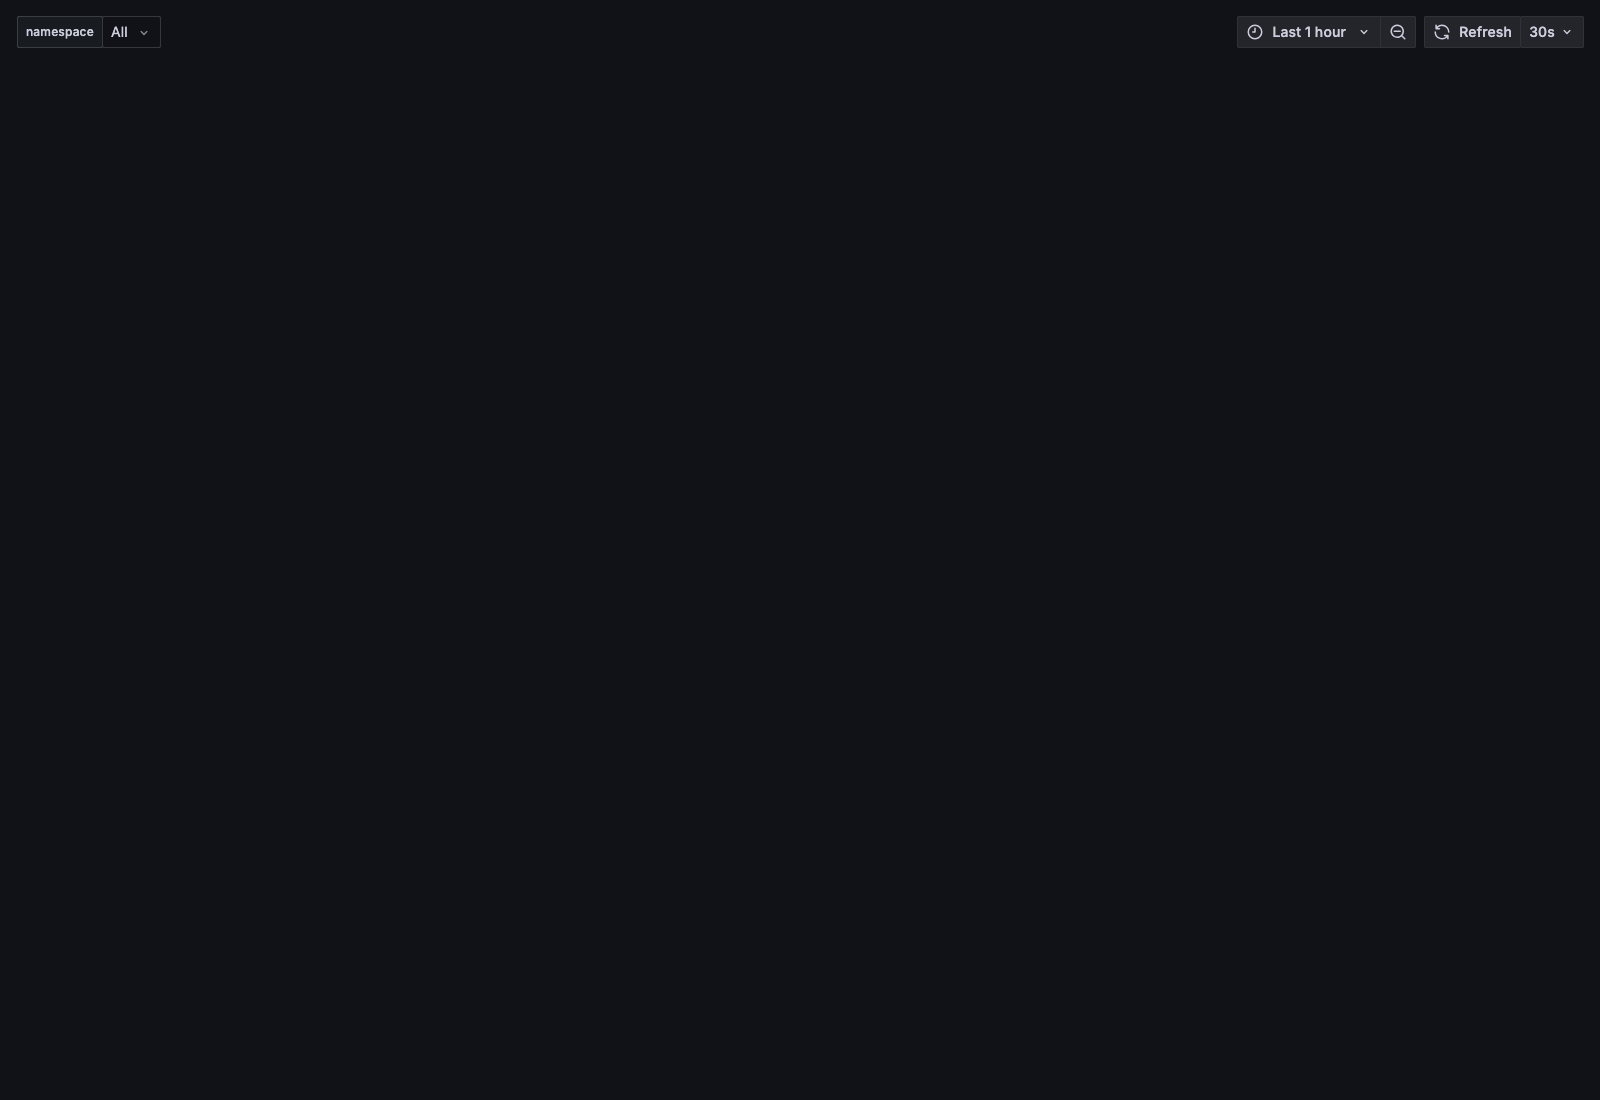
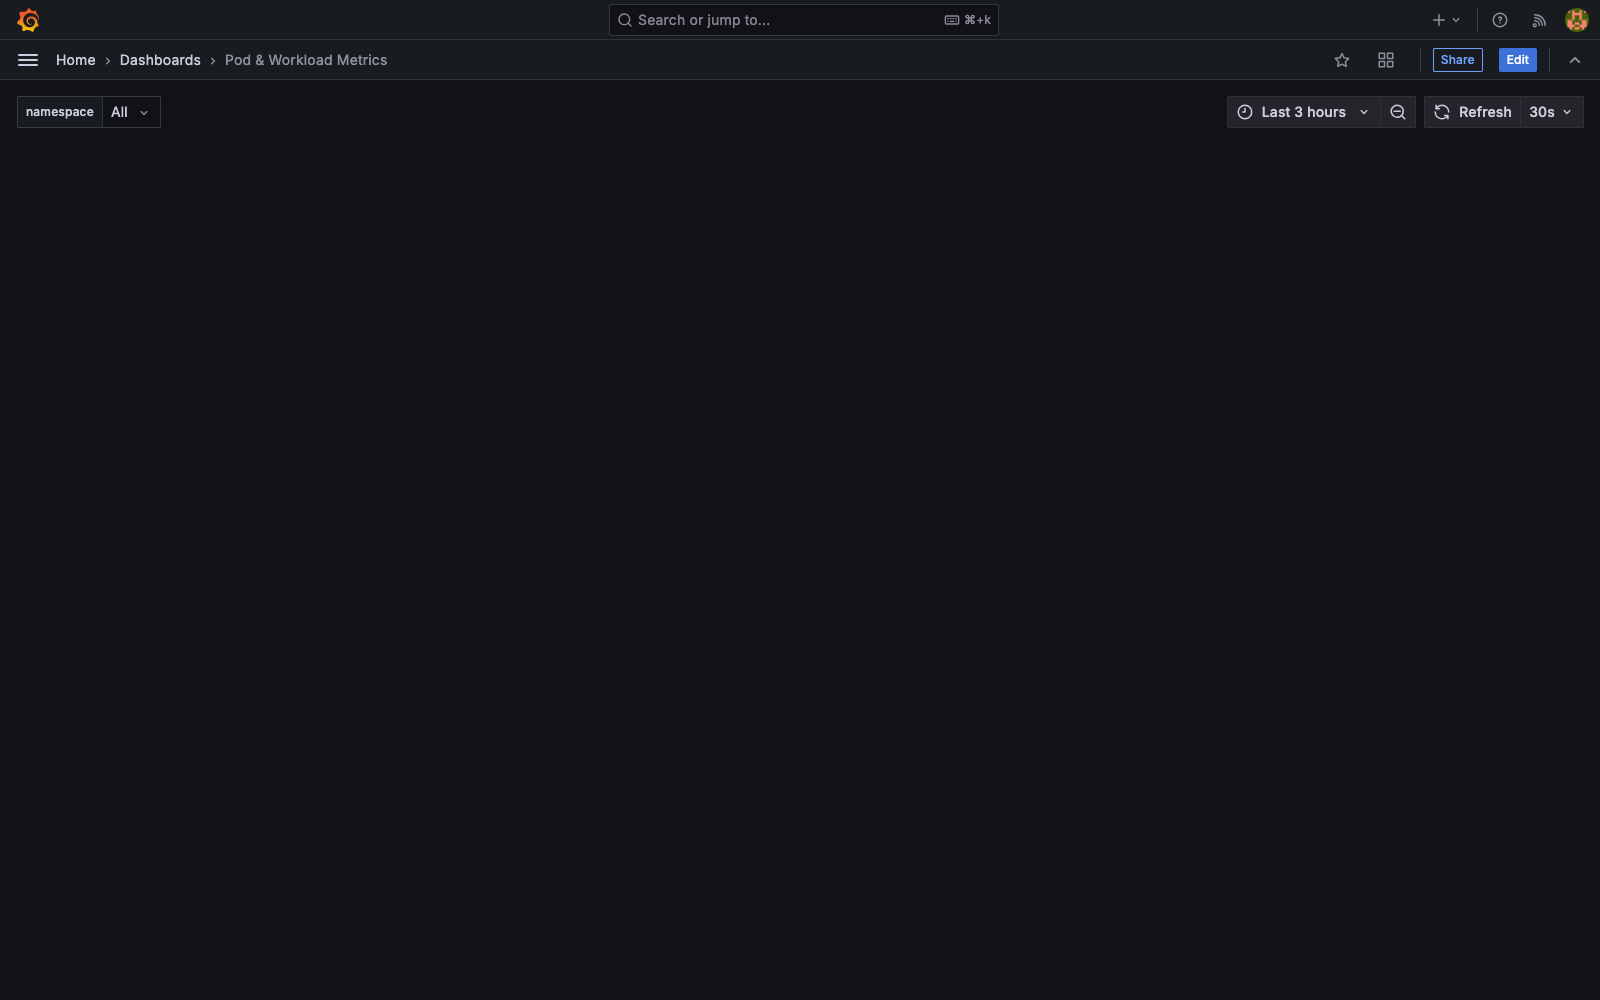
fix(extensions): move onClick/path to top-level addLink config
The configure callback is for dynamic configuration, while onClick,
path, icon, and category are top-level properties on the
PluginExtensionAddedLinkConfig type.

diff --git a/scripts/screenshots.js b/scripts/screenshots.js
@@ -9,30 +9,30 @@ const OUT_DIR = path.join(__dirname, '..', 'docs', 'screenshots');
 const PAGES = [
   {
     name: 'cluster-overview',
-    path: '/d/bfhgtzow3ug3ka/kubernetes-cluster-overview?orgId=1&kiosk',
+    path: '/d/k8s-cluster-overview/kubernetes-cluster-overview?orgId=1&from=now-3h&to=now&kiosk',
     width: 1600,
     height: 1000,
-    delay: 8000,
+    delay: 15000,
   },
   {
     name: 'node-metrics',
-    path: '/d/afhgu1eiunkzke/node-metrics-deep-dive?orgId=1&kiosk',
+    path: '/d/node-metrics/node-metrics-deep-dive?orgId=1&from=now-3h&to=now',
     width: 1600,
-    height: 1200,
-    delay: 8000,
+    height: 900,
+    delay: 15000,
   },
   {
     name: 'pod-workloads',
-    path: '/d/efhgu2yrfuubkc/pod-and-workload-metrics?orgId=1&kiosk',
+    path: '/d/pod-workloads/pod-and-workload-metrics?orgId=1&from=now-3h&to=now',
     width: 1600,
-    height: 1100,
-    delay: 8000,
+    height: 900,
+    delay: 15000,
   },
   {
     name: 'plugin-config',
-    path: '/a/tamcore-llmanalysis-app/?tab=configuration',
+    path: '/plugins/tamcore-llmanalysis-app',
     width: 1280,
-    height: 800,
+    height: 960,
     delay: 4000,
   },
   {
@@ -82,6 +82,55 @@ const PAGES = [
     const outPath = path.join(OUT_DIR, `${entry.name}.png`);
     await page.screenshot({ path: outPath, fullPage: true });
     console.log(`  → ${outPath}`);
+  }
+
+  // Capture panel menu extension screenshot
+  console.log('Capturing panel-menu-extension…');
+  await page.setViewport({ width: 1600, height: 1000 });
+  await page.goto(`${BASE_URL}/d/k8s-cluster-overview/kubernetes-cluster-overview?orgId=1`, {
+    waitUntil: 'networkidle2',
+    timeout: 30000,
+  });
+  await new Promise((r) => setTimeout(r, 10000));
+
+  try {
+    // Find and click the panel menu button (kebab icon) for "Cluster CPU Usage"
+    const menuBtn = await page.$('[data-testid="data-testid Panel menu Cluster CPU Usage"]');
+    if (menuBtn) {
+      await menuBtn.click();
+      await new Promise((r) => setTimeout(r, 1000));
+
+      // Look for "More..." or "Extensions" submenu to find our link
+      const moreBtn = await page.evaluateHandle(() => {
+        const items = document.querySelectorAll('[role="menuitem"]');
+        for (const item of items) {
+          if (item.textContent.includes('More') || item.textContent.includes('Extension')) {
+            return item;
+          }
+        }
+        return null;
+      });
+
+      if (moreBtn && moreBtn.asElement()) {
+        await moreBtn.asElement().click();
+        await new Promise((r) => setTimeout(r, 1000));
+      }
+    } else {
+      // Fallback: find any panel menu trigger
+      const allMenuBtns = await page.$$('[aria-label="Menu for panel"]');
+      if (allMenuBtns.length > 0) {
+        await allMenuBtns[0].click();
+        await new Promise((r) => setTimeout(r, 1500));
+      }
+    }
+
+    await page.screenshot({
+      path: path.join(OUT_DIR, 'panel-menu-extension.png'),
+      fullPage: false,
+    });
+    console.log('  → panel-menu-extension.png');
+  } catch (err) {
+    console.log('  ⚠ Could not capture panel menu:', err.message);
   }
 
   await browser.close();

diff --git a/src/module.ts b/src/module.ts
@@ -13,57 +13,42 @@ export const plugin = new AppPlugin<{}>()
     body: AppConfig,
     id: 'configuration',
   })
-  .addLink({
+  .addLink<PluginExtensionPanelContext>({
     title: 'Analyze with LLM',
     description: 'Send this panel to AI for analysis',
     targets: [PluginExtensionPoints.DashboardPanelMenu],
-    configure: (context) => {
-      return {
-        icon: 'ai' as const,
-        category: 'LLM',
-        onClick: (event, helpers) => {
-          const panelContext = helpers?.context as PluginExtensionPanelContext | undefined;
-          if (helpers?.openModal) {
-            helpers.openModal({
-              title: '🤖 Analyze Panel with LLM',
-              body: ({ onDismiss }) =>
-                React.createElement(PanelAnalysisModal, { context: panelContext, onDismiss }),
-              width: '60%',
-              height: '80vh',
-            });
-          }
-        },
-      };
+    category: 'Extensions',
+    onClick: (event, helpers) => {
+      const panelContext = helpers?.context;
+      if (helpers?.openModal) {
+        helpers.openModal({
+          title: '🤖 Analyze Panel with LLM',
+          body: ({ onDismiss }) =>
+            React.createElement(PanelAnalysisModal, { context: panelContext, onDismiss }),
+          width: '60%',
+          height: '80vh',
+        });
+      }
     },
   })
   .addLink({
     title: 'Analyze with LLM',
     description: 'Analyze current query results with AI',
     targets: [PluginExtensionPoints.ExploreToolbarAction],
-    configure: () => {
-      return {
-        icon: 'ai' as const,
-        onClick: (_event, helpers) => {
-          if (helpers?.openModal) {
-            helpers.openModal({
-              title: '🤖 Analyze with LLM',
-              body: ({ onDismiss }) => React.createElement(ExploreAnalysisModal, { onDismiss }),
-              width: '60%',
-              height: '80vh',
-            });
-          }
-        },
-      };
+    onClick: (_event, helpers) => {
+      if (helpers?.openModal) {
+        helpers.openModal({
+          title: '🤖 Analyze with LLM',
+          body: ({ onDismiss }) => React.createElement(ExploreAnalysisModal, { onDismiss }),
+          width: '60%',
+          height: '80vh',
+        });
+      }
     },
   })
   .addLink({
     title: 'LLM Analysis',
     description: 'Open LLM Analysis page',
     targets: [PluginExtensionPoints.CommandPalette],
-    configure: () => {
-      return {
-        path: `/a/${PLUGIN_ID}`,
-        icon: 'ai' as const,
-      };
-    },
+    path: `/a/${PLUGIN_ID}`,
   });
